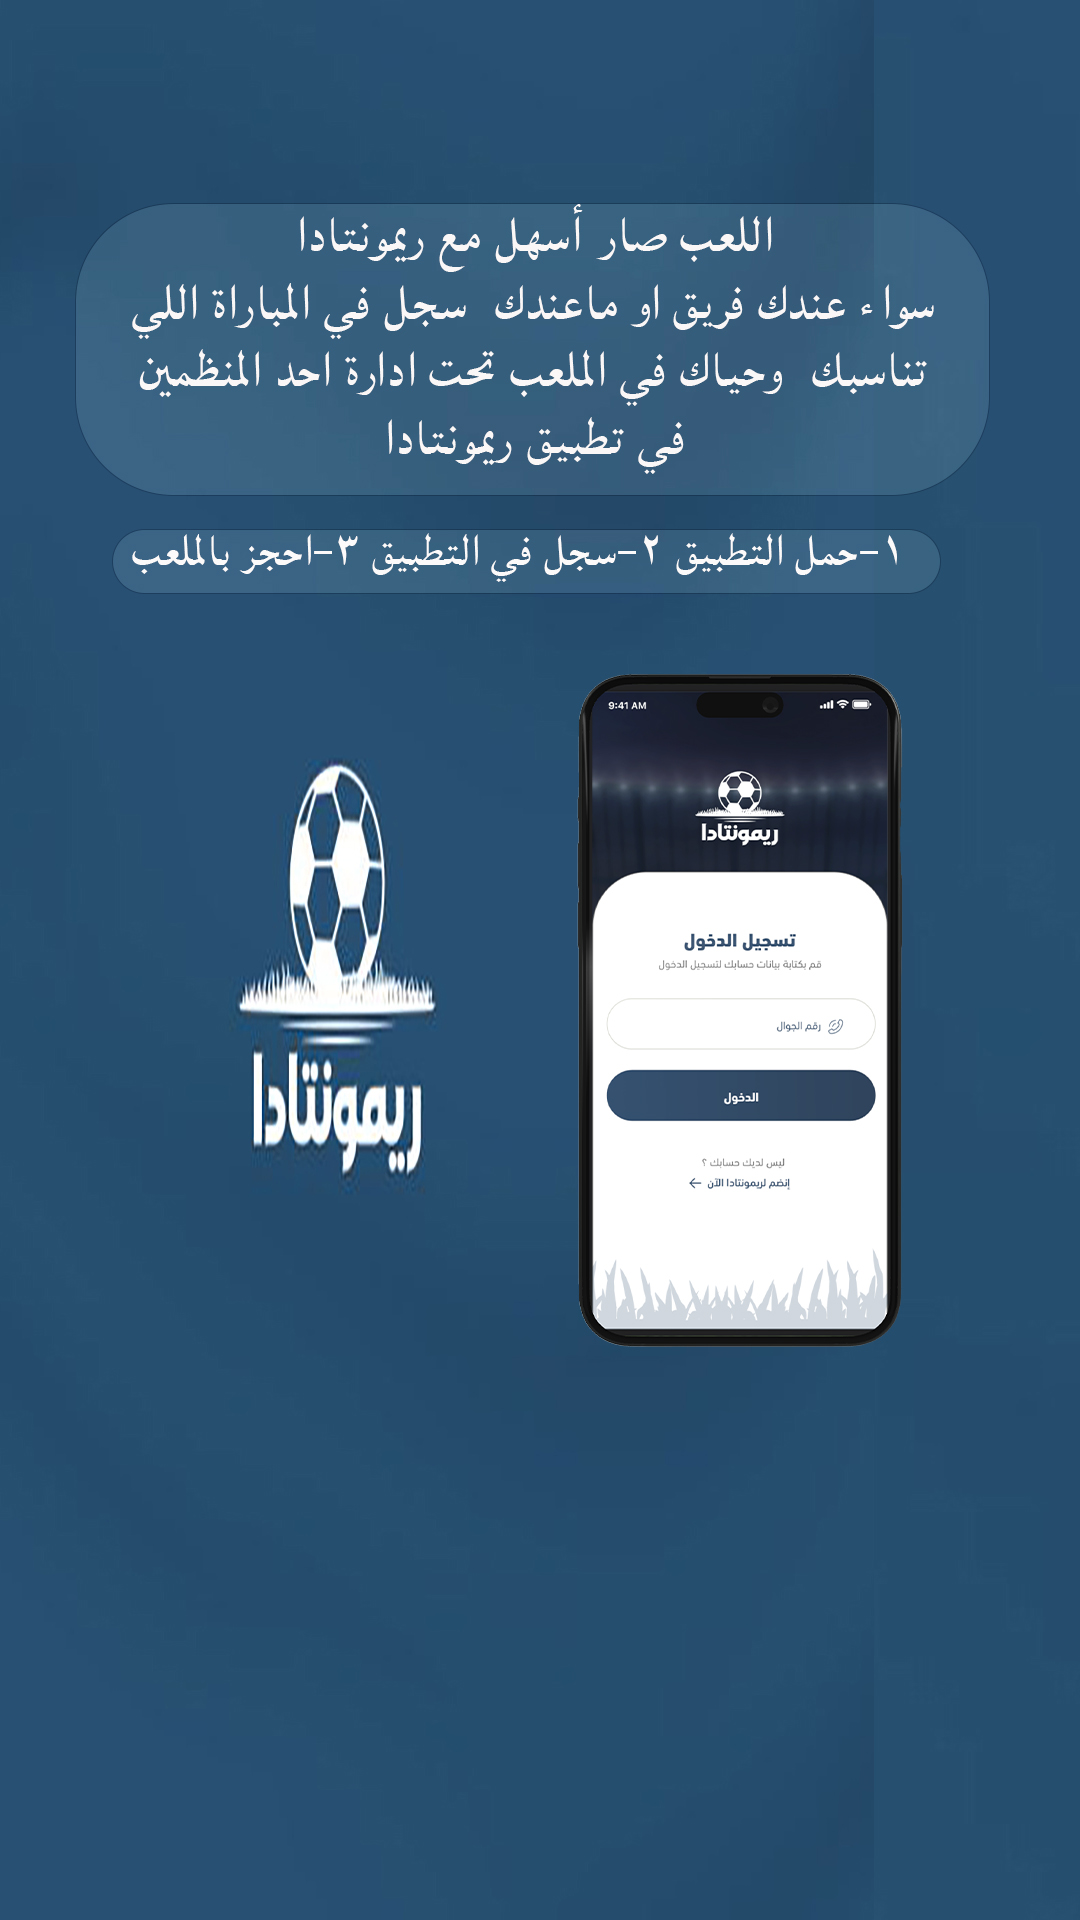
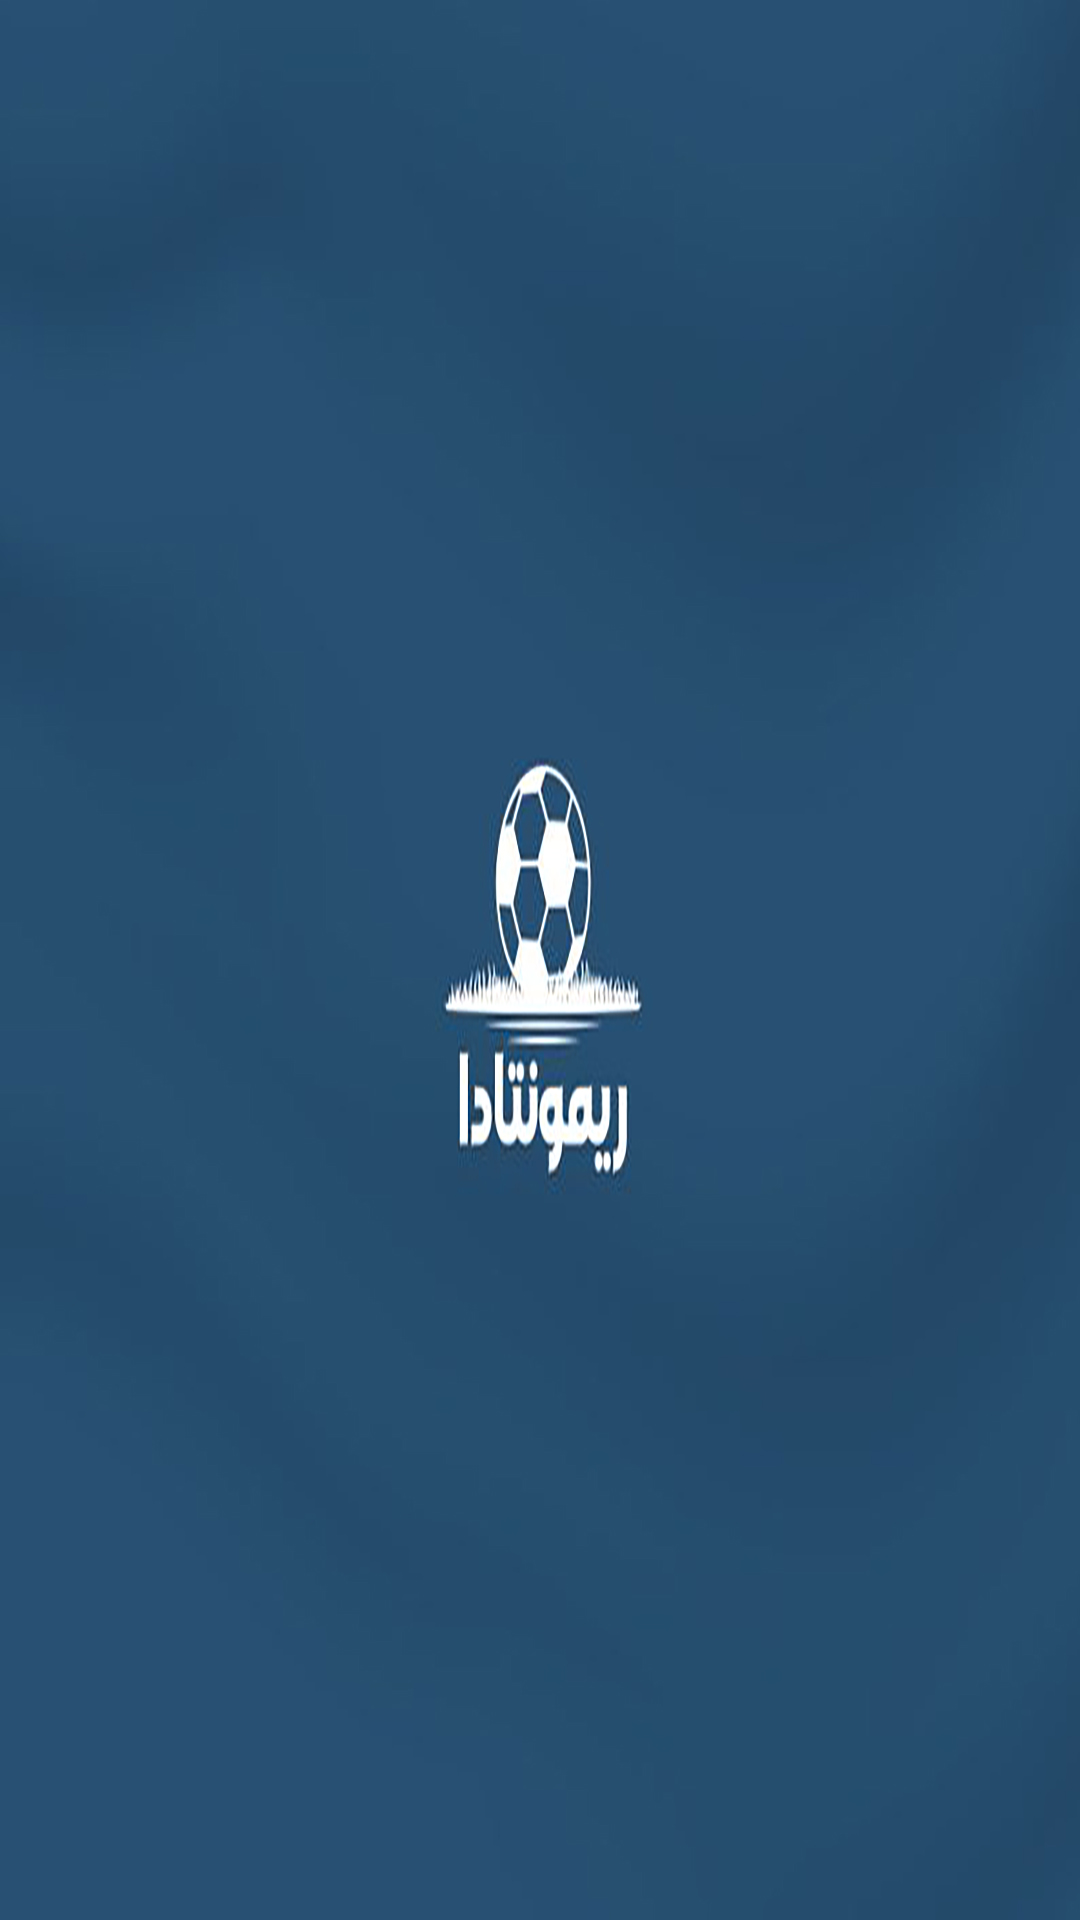
Make design responsive and add text

diff --git a/index.html b/index.html
@@ -17,6 +17,21 @@
             background-size: cover;
             background-position: center;
             font-family: 'Arial', sans-serif;
+            color: white;
+            text-align: center;
+        }
+        .content {
+            background: rgba(0, 0, 0, 0.5); /* خلفية شفافة للنص */
+            padding: 20px;
+            border-radius: 10px;
+            max-width: 90%;
+            margin: 20px;
+        }
+     .iphone-mockup {
+            width: 200px;
+            height: auto;
+            margin-top: 20px;
+            animation: move 5s infinite alternate;
         }
         .buttons {
             display: flex;
@@ -25,7 +40,6 @@
             background: rgba(255, 255, 255, 0.5); /* خلفية بيضاء شفافة */
             padding: 20px;
             border-radius: 10px;
-            margin-top: 500px;
         }
         .buttons a {
             display: inline-block;
@@ -39,9 +53,27 @@
         .buttons a:hover img {
             transform: scale(1.1);
         }
+        @media (max-width: 600px) {
+            .buttons img {
+                width: 100px;
+            }
+        }
+       
+        @keyframes move {
+            0% { transform: translateY(0); }
+            100% { transform: translateY(-20px); }
+        }
     </style>
 </head>
 <body>
+    <div class="content">
+        <h1>اللعب صار أسهل مع ريمونتادا</h1>
+        <p>سواء عندك فريق أو ما عندك، سجل في المباراة اللي تناسبك، وحياك في الملعب تحت إدارة أحد المنظمين في تطبيق ريمونتادا.</p>
+    </div>
+</div>
+<img src="iphone-mockup.png" alt="iPhone Mockup" class="iphone-mockup">
+</body>
+</html>
     <div class="buttons">
         <a href="https://apps.apple.com/app/id6550914902" target="_blank">
             <img src="Apple-Store.png" alt="Apple Store">
@@ -49,6 +81,4 @@
         <a href="https://play.google.com/store/apps/details?id=com.masader.remontada&pcampaignid=web_share" target="_blank">
             <img src="Google-Play.png" alt="Google Play">
         </a>
-    </div>
-</body>
-</html>
+
